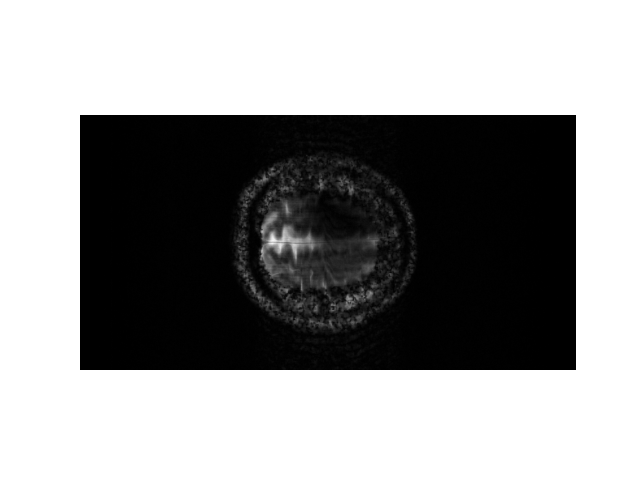
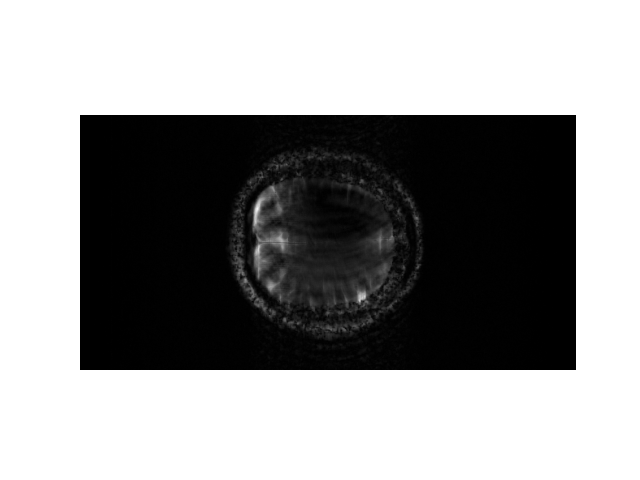
test recons

Changed region(s): [[0.3438, 0.3125, 0.6562, 0.7188]]

diff --git a/my_CDLNet/solvers.py b/my_CDLNet/solvers.py
@@ -23,9 +23,9 @@ def conj_grad(A, b, x0 = None, tol = 1e-6, max_iter = 100, verbose = False):
         r_next = r - alpha * Ap
         r_norm = torch.norm(r, 2)
         
-        if torch.max((x-x_next).abs()) <= tol:
+        if r_norm <= tol:
             tol_reached = True
-            return x, tol_reached
+            return x_next, tol_reached
         beta = torch.sum(r_next.conj() *  r_next)/(torch.sum(r.conj() *  r) + 1e-8)
         p = r_next + beta * p
         r = r_next
@@ -33,3 +33,4 @@ def conj_grad(A, b, x0 = None, tol = 1e-6, max_iter = 100, verbose = False):
         if verbose:
             print(f"Iteration: {k}, Residual: {r_norm}")
     return x, tol_reached
+
